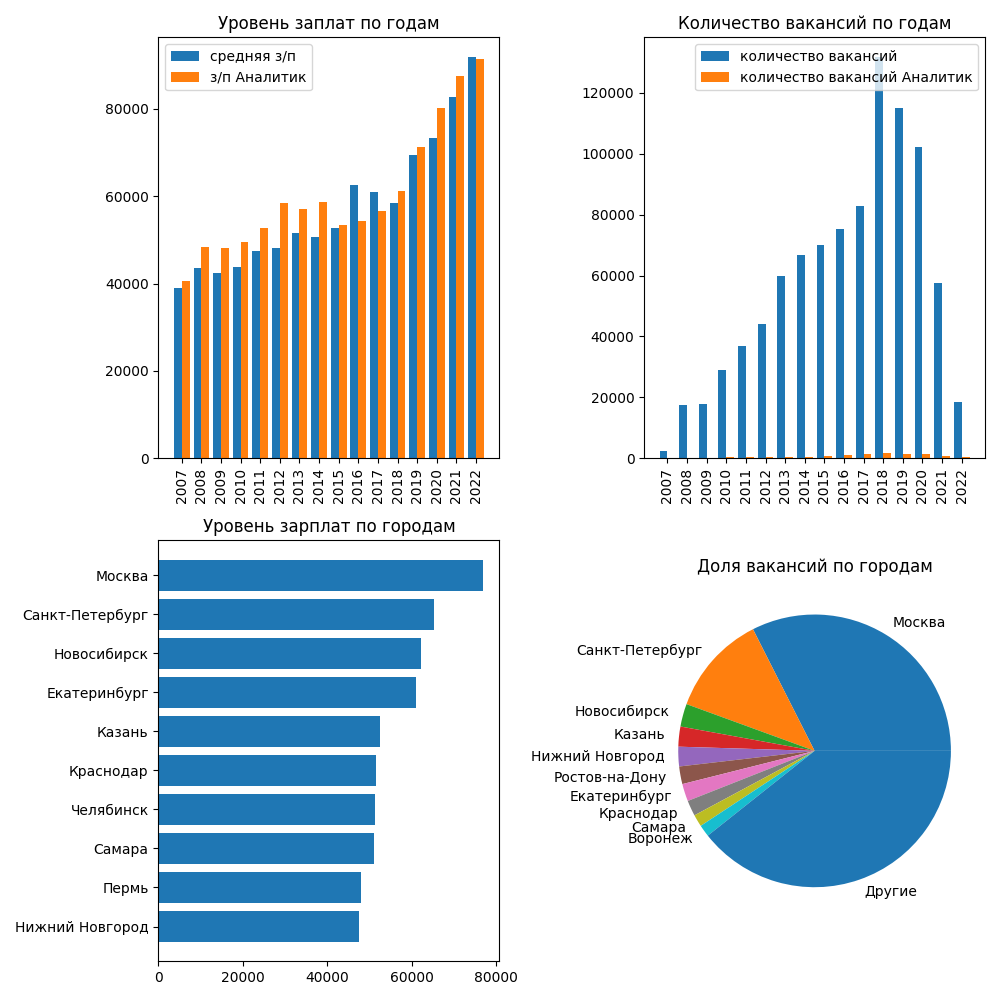
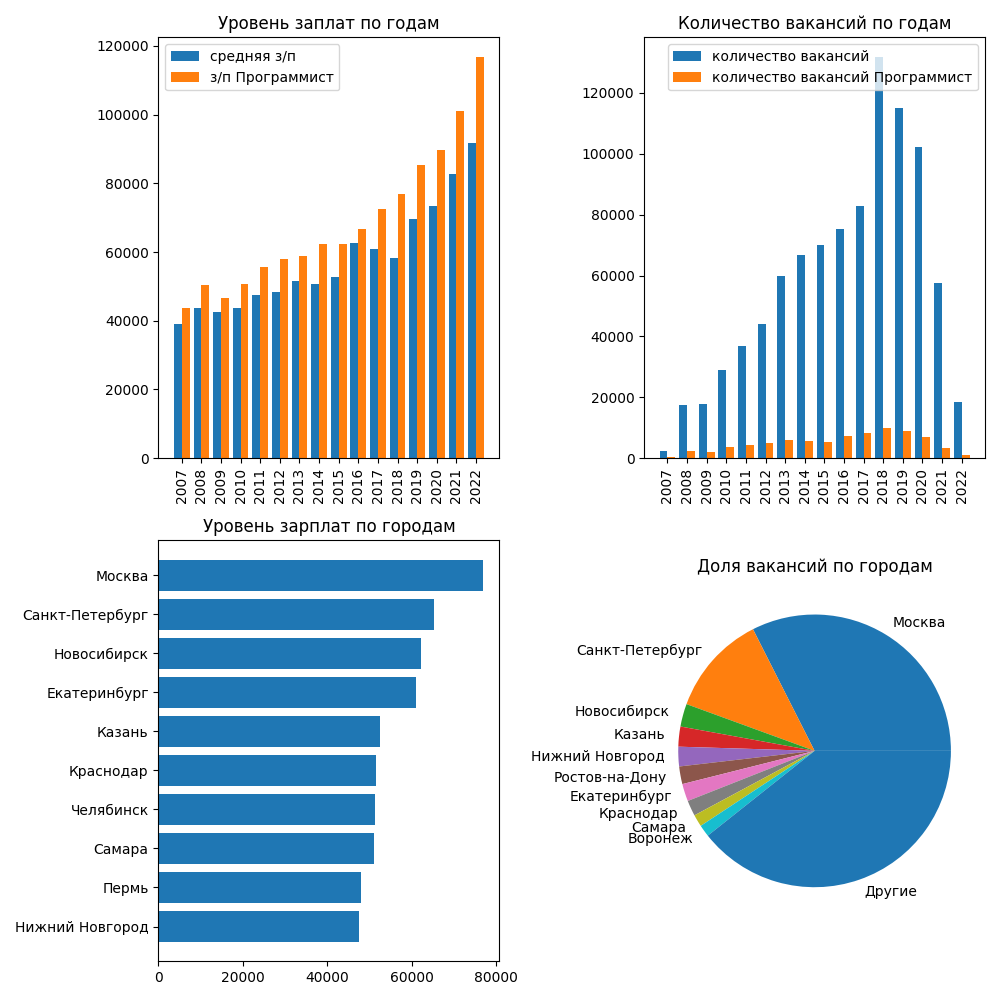
commit

diff --git a/14.py b/14.py
@@ -1,0 +1,271 @@
+import csv
+import re
+from collections import Counter
+import openpyxl
+from openpyxl.styles import Border, Side, Font
+import matplotlib.pyplot as plt
+import numpy as np
+
+
+class report:
+    def __init__(self):
+        self.file = openpyxl.Workbook()
+
+        ws = self.file.active
+        ws.title = "Статистика по годам"
+        self.file.create_sheet("Статистика по городам")
+
+    def generate_excel(self, list_years, list_city):
+        ws = self.file["Статистика по годам"]
+        ws.append(["Год", "Средняя зарплата", f"Средняя зарплата - {prof}", "Количество вакансий" , f"Количество вакансий - {prof}"])
+        ws2 = self.file["Статистика по городам"]
+        years = list(list_years[0].keys())
+        l = len(years)
+        i = 0
+        flag = True
+        thins = Side(border_style="thin", color="000000")
+        for col in ws.iter_cols(min_row=2, max_col=5, max_row=l+1):
+            min = 2007
+            if flag:
+                j = 0
+                for cell in col:
+                    cell.value = years[j]
+                    cell.border = Border(top=thins, bottom=thins, left=thins, right=thins)
+                    j += 1
+                flag = False
+            else:
+                for cell in col:
+                    cell.value = list_years[i][min]
+                    cell.border = Border(top=thins, bottom=thins, left=thins, right=thins)
+                    min += 1
+                i += 1
+        for col in ws.columns:
+            length = max(len(str(cell.value)) for cell in col)
+            ws.column_dimensions[col[0].column_letter].width = length + 2
+        ws2["A1"].value = "Город"
+        ws2["A1"].font = Font(bold=True)
+        ws2["B1"].value = "Уровень зарплаты"
+        ws2["B1"].font = Font(bold=True)
+        ws2["D1"].value = "Город"
+        ws2["D1"].font = Font(bold=True)
+        ws2["E1"].value = "Доля вакансий"
+        ws2["E1"].font = Font(bold=True)
+        cities = list(list_city[0].keys())
+        flag = True
+        for col in ws2.iter_cols(min_row=2, max_col=2, max_row=11):
+            if flag:
+                j = 0
+                for cell in col:
+                    cell.value = cities[j]
+                    cell.border = Border(top=thins, bottom=thins, left=thins, right=thins)
+                    j += 1
+                flag = False
+            else:
+                j = 0
+                for cell in col:
+                    cell.value = list_city[0][cities[j]]
+                    cell.border = Border(top=thins, bottom=thins, left=thins, right=thins)
+                    j += 1
+        cities = list(list_city[1].keys())
+        flag = True
+        for col in ws2.iter_cols(min_row=2,min_col=4 ,max_col=5, max_row=11):
+            if flag:
+                j = 0
+                for cell in col:
+                    cell.value = cities[j]
+                    cell.border = Border(top=thins, bottom=thins, left=thins, right=thins)
+                    j += 1
+                flag = False
+            else:
+                j = 0
+                for cell in col:
+                    cell.value = "{:.2%}".format(list_city[1][cities[j]])
+                    cell.border = Border(top=thins, bottom=thins, left=thins, right=thins)
+                    j += 1
+        for col in ws2.columns:
+            length = max(len(str(cell.value)) for cell in col)
+            ws2.column_dimensions[col[0].column_letter].width = length + 2
+        self.file.save('report.xlsx')
+
+
+def to_string(ws):
+    result = ""
+    result += "<table>\n"
+
+    for row in ws.rows:
+        result += "<tr>"
+        for value in row:
+            if value.value == None:
+                result += "<th style=\"border: 0;\"></th>"
+                continue
+            result += f"<th>{value.value}</th>"
+        result += "</tr>"
+
+    result += "</table>"
+    return result
+
+
+def clean_string(string):
+    return ' '.join(re.sub(r"<[^>]+>", '', string).split())
+
+
+def csv_reader(name):
+    csv_list = csv.reader(open(name, encoding='utf-8-sig'))
+    data = [x for x in csv_list]
+    return data[0], data[1::]
+
+
+def csv_filer(reader):
+    all_vac = [x for x in reader if '' not in x and len(x) == len(reader[0])]
+    vac = [[clean_string(y) for y in x] for x in all_vac]
+    return vac
+
+
+def set_graf1(salaries, prof_salaries, prof):
+    x_axis = np.arange(len(salaries))
+    years = []
+    arr = []
+    prof_arr = []
+    for key in salaries:
+        years.append(key)
+        arr.append(salaries[key])
+        prof_arr.append(prof_salaries[key])
+    graf1.bar(x_axis - 0.2, arr, width=0.4, label='средняя з/п')
+    graf1.bar(x_axis + 0.2, prof_arr, width=0.4, label='з/п ' + prof)
+    graf1.set_xticks(x_axis, years, rotation='vertical')
+    graf1.legend()
+    graf1.set_title("Уровень заплат по годам")
+
+
+def set_graf2(vacancies, prof_vacancies, prof):
+    x_axis = np.arange(len(vacancies))
+    years = []
+    arr = []
+    prof_arr = []
+    for key in vacancies:
+        years.append(key)
+        arr.append(vacancies[key])
+        prof_arr.append(prof_vacancies[key])
+    graf2.bar(x_axis - 0.2, arr, width=0.4, label='количество вакансий')
+    graf2.bar(x_axis + 0.2, prof_arr, width=0.4, label='количество вакансий ' + prof)
+    graf2.set_xticks(x_axis, years, rotation='vertical')
+    graf2.legend()
+    graf2.set_title("Количество вакансий по годам")
+
+
+def set_graf3(salaries):
+    arr = []
+    labels = []
+    for key in salaries:
+        arr.append(salaries[key])
+        labels.append(key)
+    graf3.barh(labels, arr)
+    graf3.set_title("Уровень зарплат по городам")
+    graf3.invert_yaxis()
+
+
+def set_graf4(most):
+    arr = []
+    labels = []
+    s = 0
+    for key in most:
+        arr.append(most[key])
+        s += most[key]
+        labels.append(key)
+    arr.append(1 - s)
+    labels.append("Другие")
+    graf4.pie(arr, labels=labels)
+    graf4.set_title("Доля вакансий по городам")
+
+
+currency_to_rub = {
+    "AZN": 35.68,
+    "BYR": 23.91,
+    "EUR": 59.90,
+    "GEL": 21.74,
+    "KGS": 0.76,
+    "KZT": 0.13,
+    "RUR": 1,
+    "UAH": 1.64,
+    "USD": 60.66,
+    "UZS": 0.0055,
+}
+output_type = input("Какой вывод требуется(Вакансии/Статистика: ")
+name = input('Введите название файла: ')
+prof = input('Введите название профессии: ')
+header, vac = csv_reader(name)
+vac = csv_filer(vac)
+dict_naming = {}
+for i in range(len(header)):
+    dict_naming[header[i]] = i
+salary_dynamic = {}
+count_dynamic = {}
+salary_prof_dynamic = {}
+city_count = {}
+salary_city = {}
+prof_count = {}
+for item in vac:
+    year = int(item[dict_naming['published_at']].split('-')[0])
+    if year not in count_dynamic:
+        count_dynamic[year] = 0
+    count_dynamic[year] += 1
+    for i in range(len(item)):
+        if header[i] == 'salary_from':
+            salary = (float(item[i]) + float(item[i + 1])) / 2
+            if item[dict_naming['salary_currency']] != 'RUR':
+                salary *= currency_to_rub[item[dict_naming['salary_currency']]]
+            if year not in salary_dynamic:
+                salary_dynamic[year] = []
+            salary_dynamic[year].append(int(salary))
+            if year not in salary_prof_dynamic:
+                salary_prof_dynamic[year] = []
+            if prof in item[0]: salary_prof_dynamic[year].append(int(salary))
+            if year not in prof_count:
+                prof_count[year] = 0
+            if prof in item[0]: prof_count[year] += 1
+        city = item[dict_naming['area_name']]
+        if city not in city_count:
+            city_count[city] = 0
+        city_count[city] += 1
+for item in vac:
+    for i in range(len(item)):
+        if header[i] == 'salary_from':
+            salary = (float(item[i]) + float(item[i + 1])) / 2
+            city = item[dict_naming['area_name']]
+            if item[dict_naming['salary_currency']] != 'RUR':
+                salary *= currency_to_rub[item[dict_naming['salary_currency']]]
+            if city_count[city] >= int(sum(city_count.values()) * 0.01):
+                if city not in salary_city:
+                    salary_city[city] = []
+                salary_city[city].append(int(salary))
+for key in salary_dynamic:
+    salary_dynamic[key] = sum(salary_dynamic[key]) // len(salary_dynamic[key])
+for key in salary_prof_dynamic:
+    salary_prof_dynamic[key] = sum(salary_prof_dynamic[key]) // max(len(salary_prof_dynamic[key]), 1)
+for key in salary_city:
+    salary_city[key] = sum(salary_city[key]) // len(salary_city[key])
+print('Динамика уровня зарплат по годам:', salary_dynamic)
+print('Динамика количества вакансий по годам:', count_dynamic)
+print('Динамика уровня зарплат по годам для выбранной профессии:', salary_prof_dynamic)
+print('Динамика количества вакансий по годам для выбранной профессии:', prof_count)
+print('Уровень зарплат по городам (в порядке убывания):', dict(Counter(salary_city).most_common(10)))
+most = dict(
+    Counter({k: float('{:.4f}'.format(v / sum(city_count.values()))) for k, v in city_count.items()}).most_common(10))
+most = {k: v for k, v in most.items() if v >= 0.01}
+print('Доля вакансий по городам (в порядке убывания):', most)
+
+if output_type == "Вакансии":
+    report = report()
+    report.generate_excel([salary_dynamic, salary_prof_dynamic, count_dynamic, prof_count], [salary_city, most])
+else:
+    figure, axs = plt.subplots(nrows=2, ncols=2, figsize=(10, 10), dpi=100)
+    graf1 = axs[0, 0]
+    graf2 = axs[0, 1]
+    graf3 = axs[1, 0]
+    graf4 = axs[1, 1]
+    set_graf1(salary_dynamic, salary_prof_dynamic, prof)
+    set_graf2(count_dynamic, prof_count, prof)
+    set_graf3(dict(Counter(salary_city).most_common(10)))
+    set_graf4(most)
+    plt.tight_layout()
+    plt.savefig("graph.png")
